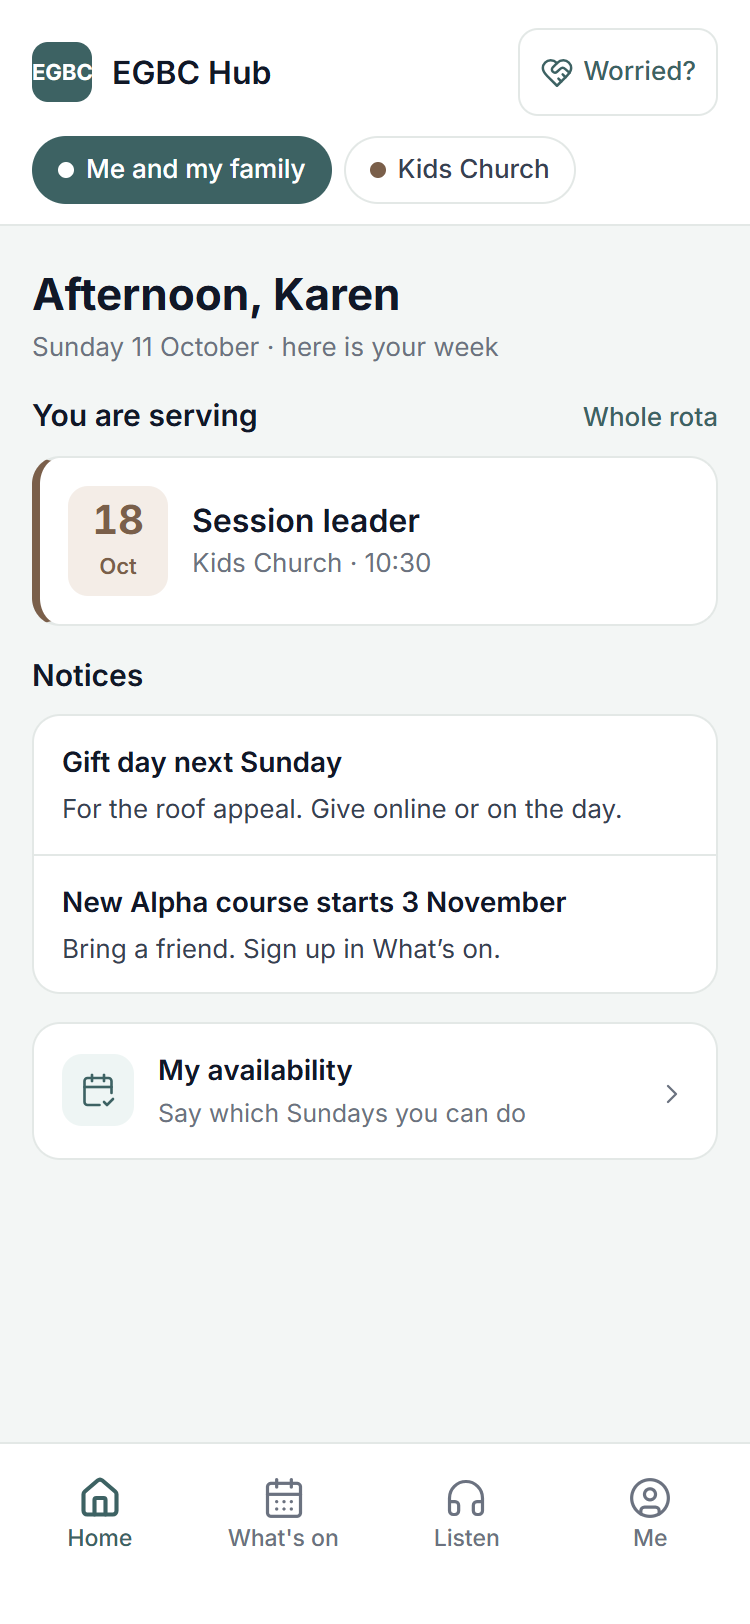
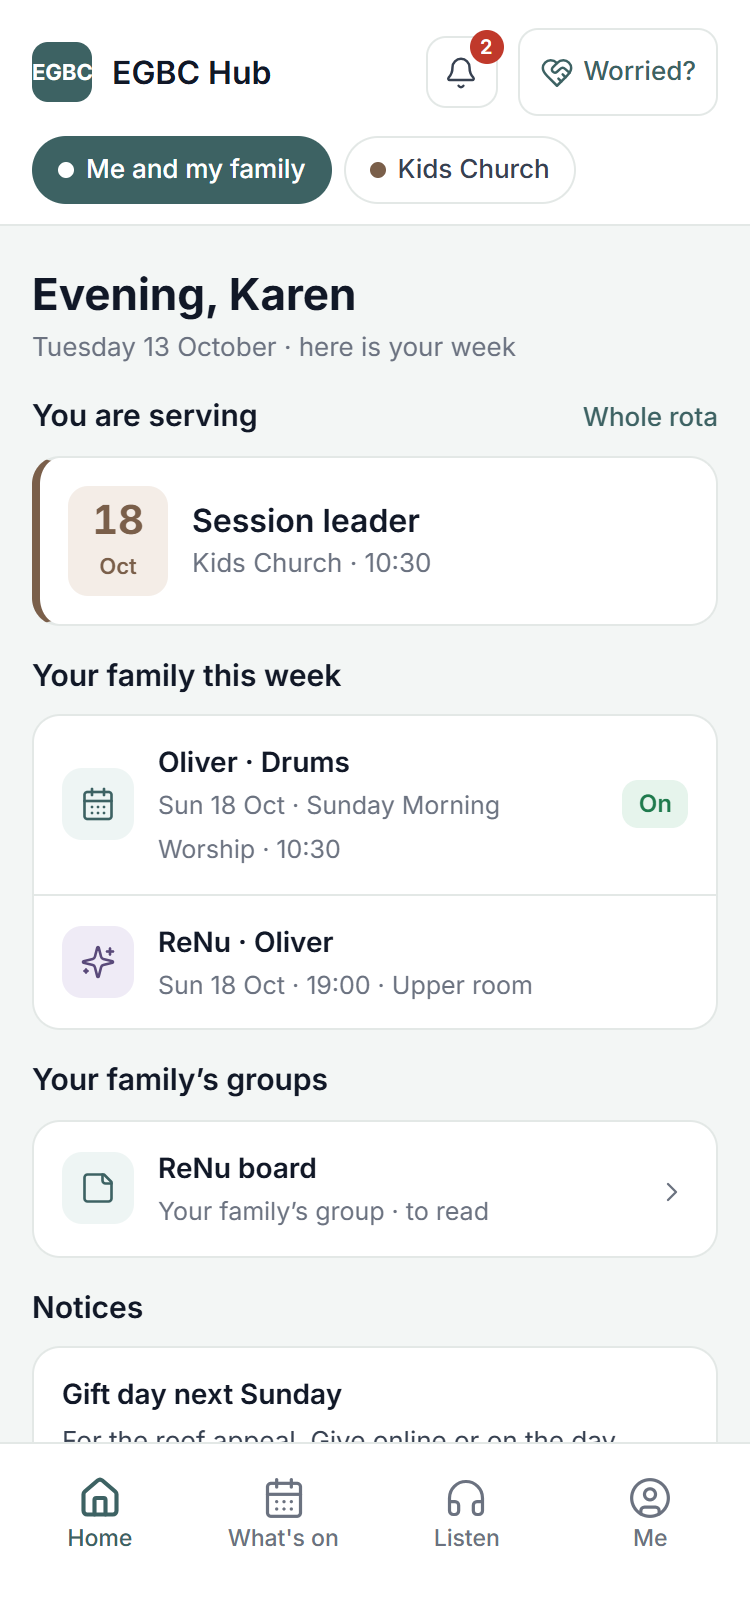
Item 6: the app beside the mock-up again, with families that are serving this week; Home no longer waits for the family answer
The pairs (screenshots/app-vs-mockup/) now seed the mock-up's own
families: Karen's Oliver on drums this Sunday and at ReNu, Sarah's Ada
and Ben booked into Kids Church and Ben at Lazers - so 'Your family this
week', Parents' Sunday and 'Your family's groups' are filled.

Two faults the pictures caught:
- Martin's Home sat on 'Finding your week...' with his own serving card
  hidden: Home waited for myFamily's cold start before drawing anything.
  The family answer now draws when it arrives and holds nothing else.
- The family rows showed an arrow and went nowhere. They carry a pill
  instead (On; Today), as the mock-up does.

check-family 39/39, with a myFamily that never answers and no arrows on
family rows; both breaks caught. check-family now also clears its own
rota and calendar events, which had shown up as a second ReNu meeting.

diff --git a/v2/app.html b/v2/app.html
@@ -608,17 +608,25 @@ function loadHome(me) {
     /* THE SUNDAY PLAN THEY ARE ON (Martin, 12 Oct 2026). A preacher or a
        service leader is on no team, so nothing else on this screen would
        ever mention them - and the email's link was refusing them. */
-    loadMyPlan(me).then(function (r) { HOME.plans = r; }, function () {}),
-    /* YOUR FAMILY THIS WEEK (§4): the household's serving and groups, from
-       the server, because the household needs the whole address book. A
-       failure leaves the section out rather than the screen broken. */
-    (window.EGBCAuth && EGBCAuth.call ? EGBCAuth.call('myFamily', {}) : Promise.resolve(null))
-      .then(function (r) { HOME.familyWeek = (r && r.week) || []; }, function () {})
+    loadMyPlan(me).then(function (r) { HOME.plans = r; }, function () {})
   ];
   /* `ready` tells an empty Home the difference between still looking and
      there being nothing. Without it, a new person reads "nothing for you
      this week" for a second before their week appears. */
   Promise.all(jobs).then(function () { HOME.ready = true; A.refresh('me', 'home'); });
+
+  /* YOUR FAMILY THIS WEEK (§4): the household's serving and groups, from
+     the server, because the household needs the whole address book. NOT
+     one of the jobs above: it is a function call, and a slow one (a cold
+     start) held the whole of Home on "Finding your week..." - the person's
+     own serving card included - until it answered. It draws when it
+     arrives. A failure leaves the section out rather than the screen
+     broken. */
+  (window.EGBCAuth && EGBCAuth.call ? EGBCAuth.call('myFamily', {}) : Promise.resolve(null))
+    .then(function (r) {
+      HOME.familyWeek = (r && r.week) || [];
+      if (HOME.familyWeek.length) A.refresh('me', 'home');
+    }, function () {});
 }
 
 /* A list of first names as a person would say it: "Ada and Ben". */
@@ -660,14 +668,19 @@ function parentsSunday(f) {
 }
 
 /* One row of "Your family this week": who, and when and where only. */
+/* A PILL ON THE RIGHT, AS THE MOCK-UP HAS, and never the arrow: these rows
+   go nowhere (when and where only, no team tools - §4), and an arrow on a
+   row that does nothing reads as a broken app. */
 function familyRow(w) {
+  var today = new Date(); today = today.getFullYear() + '-' + String(today.getMonth() + 1).padStart(2, '0') + '-' + String(today.getDate()).padStart(2, '0');
   if (w.kind === 'group') {
     return row('sparkles', (w.group || 'A group') + ' · ' + w.firstName,
-      [dayShort(w.date), w.time, w.where].filter(Boolean).join(' · '), null, null,
+      [dayShort(w.date), w.time, w.where].filter(Boolean).join(' · '),
+      w.date === today ? '<span class="pill n">Today</span>' : '<span></span>', null,
       A.SPACES.youth ? A.SPACES.youth.colour : null, A.SPACES.youth ? A.SPACES.youth.tint : null);
   }
   return row('calendar-days', w.firstName + ' · ' + (w.roles || []).join(', '),
-    [dayShort(w.date), w.title, w.time].filter(Boolean).join(' · '), null, null);
+    [dayShort(w.date), w.title, w.time].filter(Boolean).join(' · '), '<span class="pill">On</span>', null);
 }
 
 /* Feature 'notifications' (HANDOVER-MAIN rule 12). */
